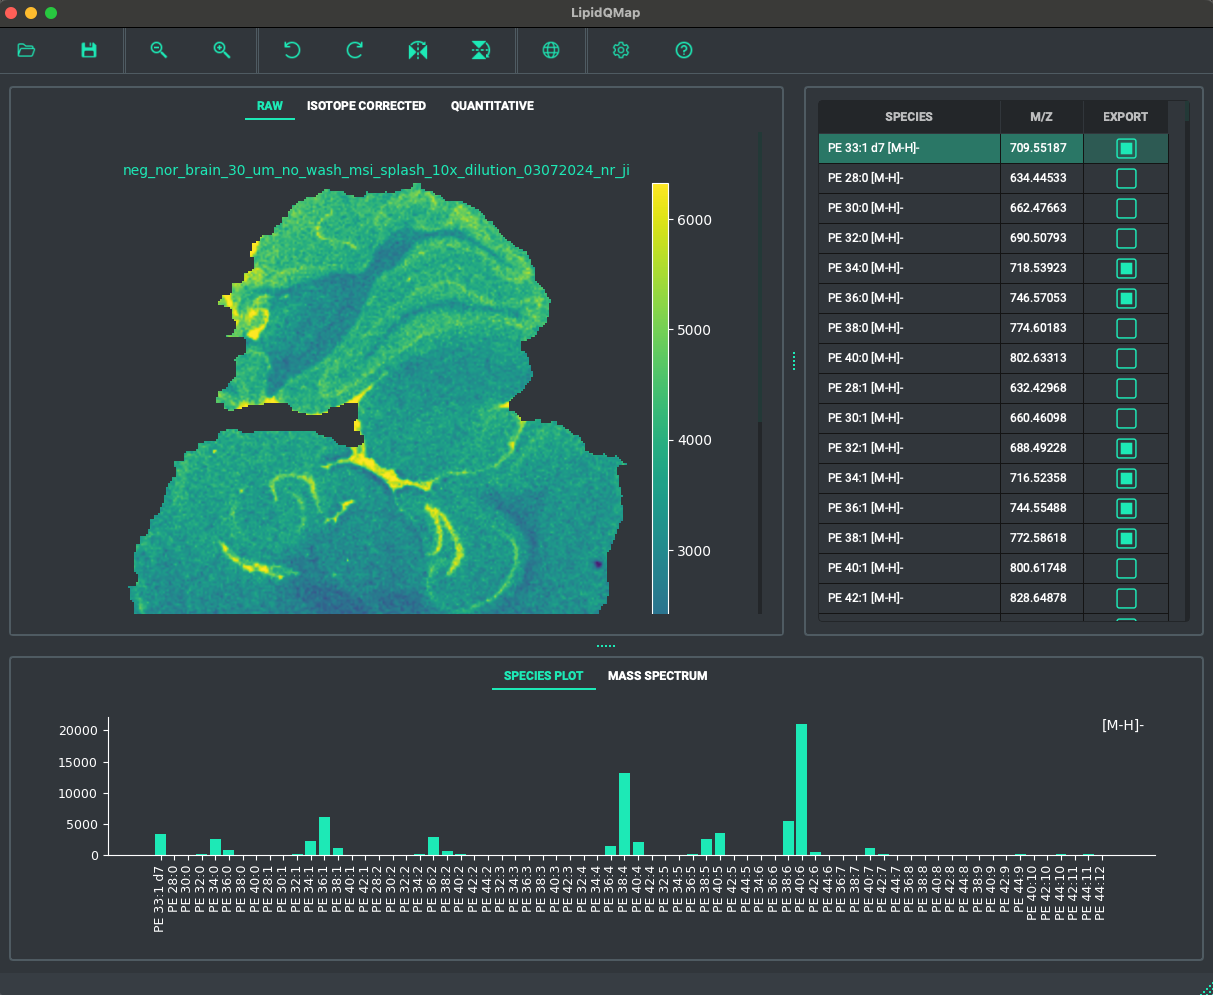
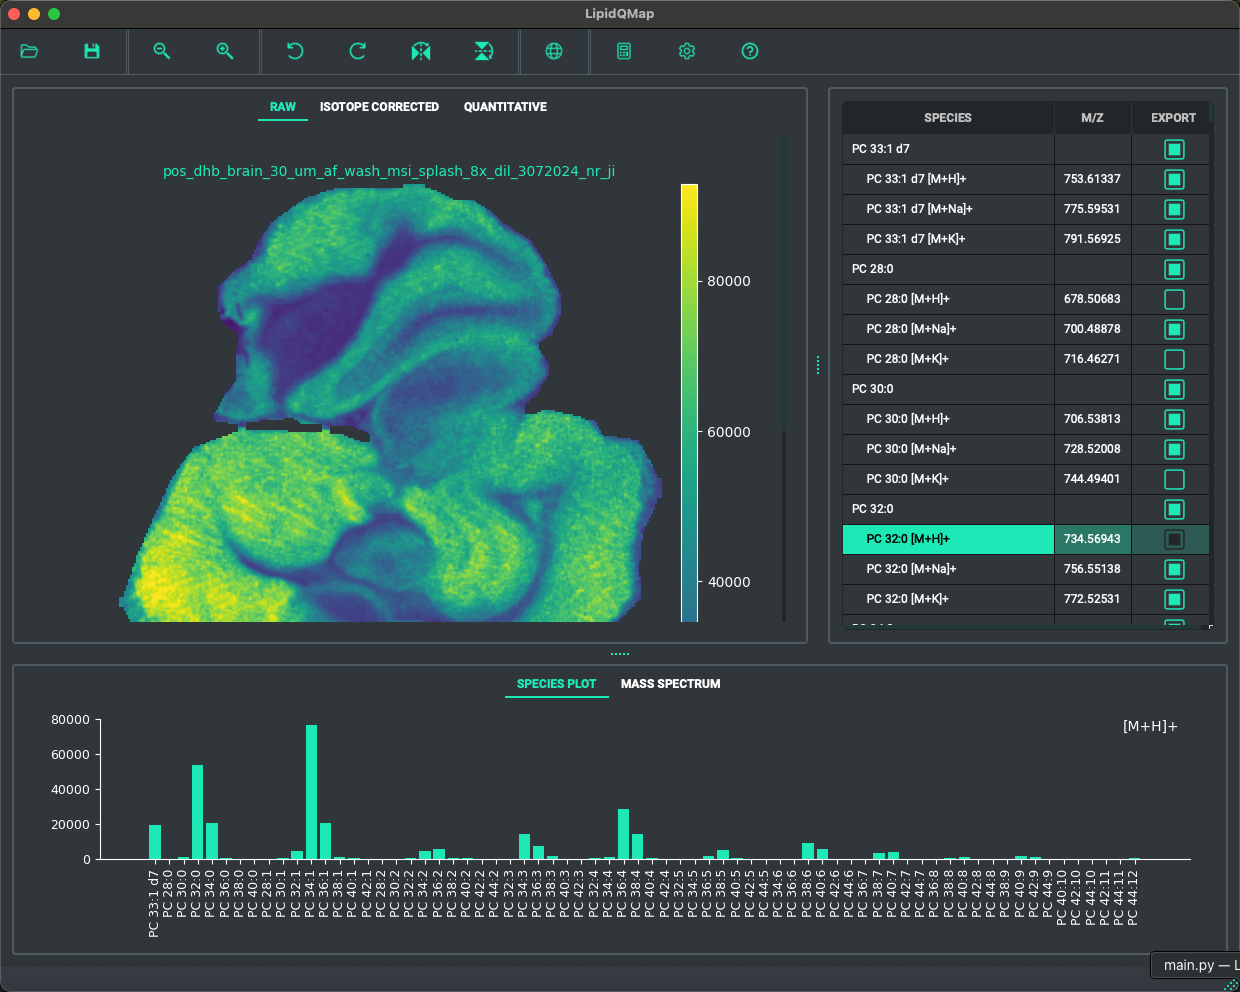
make M-4 correction optional

Changed region(s): [[0.0, 0.0, 1.0, 1.0], [0.9761, 0.0, 1.0, 0.0312], [0.9151, 0.7188, 0.9456, 0.75]]

diff --git a/app/dataprocess.py b/app/dataprocess.py
@@ -101,7 +101,7 @@ class SectionMsiImage:
         tolerances = [ppm_to_tolerance(ppm=ppm, mz=mz) for mz in species_mzs]
         image_stack = get_ion_images(p=imzml_parser, mzs=species_mzs, tolerances=tolerances)
         self.raw = dict(zip(species_ids, list(image_stack)))
-        progress_file_callback.emit(70)
+        progress_file_callback.emit(60)
 
         # calculate average spectrum
         bin_size = self.config.settings.processing_settings.bin_size
@@ -118,17 +118,25 @@ class SectionMsiImage:
                 self.isotope = db_isotope_correction(database=database, images=self.isotope)
             else:
                 self.isotope = db_isotope_correction(database=database, images=self.raw)
-        progress_file_callback.emit(75)
+        progress_file_callback.emit(70)
 
         # perform quantitation
         if self.isotope:
             self.quant = quantitaton(database=database, images=self.isotope)
         else:
             self.quant = quantitaton(database=database, images=self.raw)
-        progress_file_callback.emit(80)
+        progress_file_callback.emit(75)
 
-        # replace nan with median of surrounding pixels in quant images
-        self.quant = {k: replace_nan_with_median(v) for (k, v) in self.quant.items()}
+        # replace nan with median of surrounding pixels
+        if self.config.settings.processing_settings.imputation:
+            self.raw = {k: replace_nan_with_median(v) for (k, v) in self.raw.items()}
+            progress_file_callback.emit(80)
+            self.isotope = {k: replace_nan_with_median(v) for (k, v) in self.isotope.items()}
+            progress_file_callback.emit(85)
+            self.quant = {
+                k: replace_nan_with_median(v) if v is not None else None
+                for k, v in self.quant.items()
+            }
         progress_file_callback.emit(90)
 
         # sum the different adduct forms of the same species
@@ -513,12 +521,10 @@ def _add_padding(arr, pad_width):
 
 
 @njit
-def replace_nan_with_median(arr: npt.NDArray | None) -> npt.NDArray | None:
+def replace_nan_with_median(arr: npt.NDArray) -> npt.NDArray:
     """
     Replaces nan values with mean of surrounding window of 3 by 3 pixels, excluding any nan in the window
     """
-    if arr is None:
-        return None
     # Pad the array with NaNs to handle edge cases
     padded_arr = _add_padding(arr, 1)
     nan_mask = np.isnan(arr)

diff --git a/app/views/imzml_import_window.py b/app/views/imzml_import_window.py
@@ -48,6 +48,7 @@ class ImzmlImportWindow(QWidget, Ui_Dialog):
         self.cal_int_spinbox.setValue(
             self.config.settings.processing_settings.calibration_min_intensity
         )
+        self.imputation_checkbox.setChecked(self.config.settings.processing_settings.imputation)
         # set last used database
         index = self.database_combo_box.findText(
             self.config.settings.database_settings.last_used_database
@@ -72,6 +73,7 @@ class ImzmlImportWindow(QWidget, Ui_Dialog):
         self.cal_int_spinbox.valueChanged.connect(self.update_save_setting)
         self.pos_radio_button.clicked.connect(self.update_ion_mode)
         self.database_combo_box.currentTextChanged.connect(self.update_save_setting)
+        self.imputation_checkbox.clicked.connect(self.update_save_setting)
 
     def process_imzml_files(self) -> None:
 
@@ -172,6 +174,8 @@ class ImzmlImportWindow(QWidget, Ui_Dialog):
             self.config.settings.processing_settings.db_isotope_correction = sender.isChecked()
         elif sender == self.cal_checkbox:
             self.config.settings.processing_settings.online_calibration = sender.isChecked()
+        elif sender == self.imputation_checkbox:
+            self.config.settings.processing_settings.imputation = sender.isChecked()
         self.config.save()
 
     def set_ui_components_status(self, active: bool) -> None:
@@ -187,3 +191,4 @@ class ImzmlImportWindow(QWidget, Ui_Dialog):
         self.na_iso_cor_checkbox.setEnabled(active)
         self.cal_checkbox.setEnabled(active)
         self.cal_group_box.setEnabled(active)
+        self.imputation_checkbox.setEnabled(active)

diff --git a/app/database.py b/app/database.py
@@ -1,6 +1,5 @@
 from __future__ import annotations
 
-import copy
 from enum import Enum
 from functools import cached_property
 from typing import Any
@@ -312,23 +311,35 @@ class DatabaseFactory:
 
     def check_columns(self) -> None:
         """
-        Check if the necessary columns are present in the database.
+        Check if necessary columns are present, add optional ones, and raise
+        a comprehensive error for missing required ones.
         """
 
-        columns = [
+        required_cols = {
             "ID",
             "Neutral Formula",
             "Class",
             "Adducts",
             "M-2 Isotope",
-            "M-4 Isotope",
             "Na+ Isotope",
             "IS",
             "IS amount (pmol / mm2)",
-        ]
-        for col in columns:
-            if not col in self.df.columns:
-                raise ValueError(f"The excel database is missing the '{col}' column.")
+        }
+        optional_cols = {"M-4 Isotope"}
+
+        df_cols = set(self.df.columns)
+
+        missing_required = required_cols - df_cols
+        if missing_required:
+            missing_list = ", ".join(sorted(list(missing_required)))
+            raise ValueError(
+                f"The database is missing required columns: '{missing_list}'. "
+                "Please ensure you have a valid database and restart."
+            )
+
+        missing_optional = optional_cols - df_cols
+        for col in missing_optional:
+            self.df[col] = None
 
     def setup_dataframe(self) -> None:
         """

diff --git a/tests/test_dataprocess.py b/tests/test_dataprocess.py
@@ -5,13 +5,7 @@ import numpy.testing as nptest
 import numpy.typing as npt
 import pytest
 
-from app.config import (
-    Config,
-    Configuration,
-    FilterSettings,
-    ProcessingSettings,
-    SelectionSettings,
-)
+from app.config import Config, Configuration, FilterSettings, ProcessingSettings, SelectionSettings
 from app.database import DatabaseFactory, IonMode, LipidDB
 from app.dataprocess import (
     ImageType,
@@ -96,6 +90,7 @@ def mock_config() -> Config:
     mock_processing_settings.bin_size = 5.0
     mock_processing_settings.na_isotope_correction = True
     mock_processing_settings.db_isotope_correction = True
+    mock_processing_settings.imputation = True
 
     # Set up the attributes on the selection settings mock
     mock_selection_settings.minimum_intensity = 1000
@@ -342,10 +337,6 @@ def test_replace_nan_with_median(nan_image: npt.NDArray) -> None:
         median_filled_image,
         np.array([[10.0, 12.0, 12.0], [14.0, 11.0, 12.0], [11.0, 6.0, 8.0]]),
     )
-
-
-def test_replace_nan_with_median_none() -> None:
-    assert replace_nan_with_median.py_func(None) == None
 
 
 def test_ppm_to_tolerance() -> None:

diff --git a/app/config.py b/app/config.py
@@ -80,6 +80,7 @@ class ProcessingSettings(BaseModel):
     neg_calibrant: float = Field(default=798.5410)
     calibration_ppm: float = Field(default=30.0)
     calibration_min_intensity: int = Field(default=10000)
+    imputation: bool = Field(default=True)
 
 
 class Configuration(BaseModel):

diff --git a/README.md b/README.md
@@ -35,10 +35,11 @@ Click on the folder icon in the top left of the main program window to open the 
 2. Select if the file contains positive or negative ion mode data.
 3. Select the maximum tolerated mass error (in ppm) for for extracting the ion images.
 4. Select the Bin size used for calculating the average spectrum (Default 5 mDa for TOF instruments, should be decreased for higher resolution instruments)
-5. Select which database should be used in the Database dropdown menu.
-6. Select which (if any) isotope correction algorithm should be used.
-7. Select if online calibration should be applied to the images. This requires a reference m/z, a tolerance (in ppm) of the maximum allowed deviation from the reference mass, and a minimum intensity of the reference m/z. If these criteria are met, the spectrum of each pixel is shifted to match the m/z of the reference mass.
-8. Click on "**Import Data**" to start importing the imzML files.
+5. Select if missing pixels should be imputated by taking the mean of the surrounding 3x3 pixels.
+6. Select which database should be used in the Database dropdown menu.
+7. Select which (if any) isotope correction algorithm should be used.
+8. Select if online calibration should be applied to the images. This requires a reference m/z, a tolerance (in ppm) of the maximum allowed deviation from the reference mass, and a minimum intensity of the reference m/z. If these criteria are met, the spectrum of each pixel is shifted to match the m/z of the reference mass.
+9. Click on "**Import Data**" to start importing the imzML files.
 
 ![alt text](resources/images/guide_imzml_import.png "imzML files import")
 
